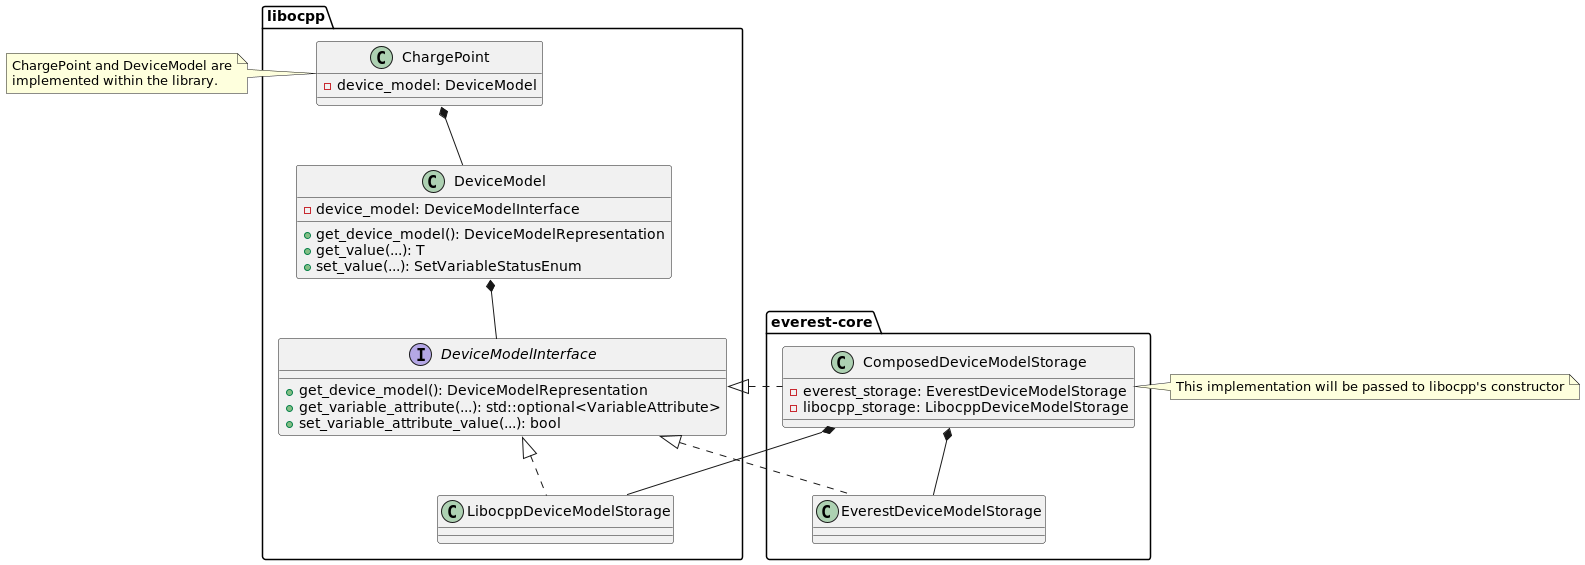
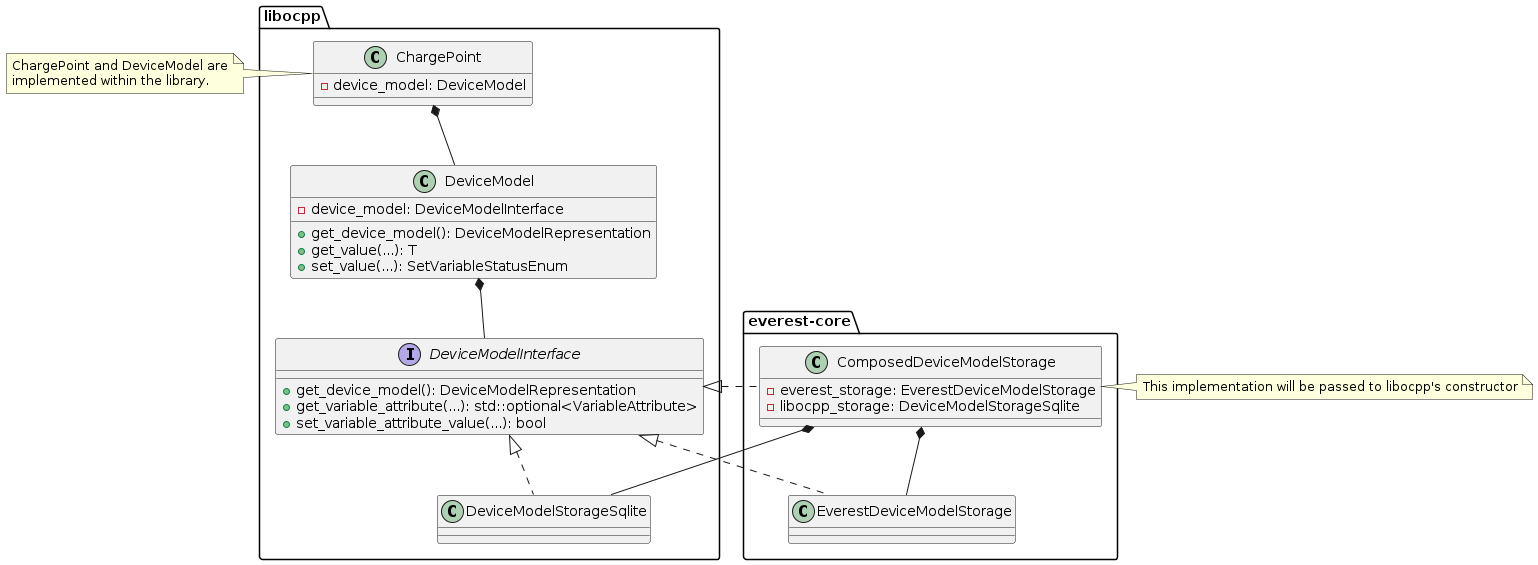
Harmonized naming within written documentation and diagrams and added some further explainations

diff --git a/modules/OCPP201/doc.rst b/modules/OCPP201/doc.rst
@@ -6,55 +6,40 @@ The `enable_global_errors` flag for this module is enabled. This module is there
 reported errors from other modules loaded in the same EVerest configuration.
 
 
-=====================================
-Device model storage / config service
-=====================================
+============
+Device model
+============
 
-The device model holds configuration and values that are managed by libocpp or externally, by other EVerest modules. To
-be able to get the externally managed configuration, a config service is defined.
-The config service is yet to be defined and implemented, but the first steps are already made.
+For managing configuration and telemtry data of a charging station, the OCPP2.0.1 specification introduces
+a device model that is very different to the design of OCPP1.6. 
+The specified device model comes with these high-level requirements:
 
+* 3-tier model: Break charging station down into 3 main tiers: ChargingStation, EVSE and Connector
+* Components and Variables: Break down charging station into components and variables for configuration and telemetry
+* Complex data structure for reporting and configuration of variables
+* Device model contains variables of the whole charging station, beyond OCPP business logic
 
-----------------------------------
-Requirements of the config service
-----------------------------------
-
-* Config refactor --> Modules get their config via MQTT as JSON
-* Responsible for read and write operations of configuration parameters of EVerest modules at runtime and startup
-* Config service to be accessed by priviliged modules (e.g. OCPP) using an option in the manifest.yaml like
-  enable_config_service
-* Config service needs to notify priviliged modules (e.g. OCPP) if a variable has changed (e.g. internally or by some
-  other module/UI etc.)
-* Config handler shall be part of modules with R/W config parameters (extend ev-cli module generation for this)
-* Module config parameter definition needs to be extended by mutability option (RW, RO, WO) in manifest.yaml
-
-This is how the config_service may be used within priviliged modules:
-
-.. highlight:: C++
-   this->config_service->set_config_param(module_id, optional<implementation_name>, config_name, value);
-
-This is how modules may use the config service to change their internal configuration themselves:
-
-.. highlight:: C++
-   this->config.set_param(config_name, value)
-
+The device model holds configuration and values that are managed by libocpp or externally, by other EVerest modules. 
+Externally managed variables can be retrieved using the EVerest configuration service.
+The config service is yet to be defined and implemented, so for now all variables are treated as internal variables.
 
 ---------------------------------------------------------------
 Internally and Externally Managed Variables of the Device Model
 ---------------------------------------------------------------
 
-As mentioned in the introduction the device model of OCPP2.0.1 can contain various physical or logical components and
+The device model of OCPP2.0.1 can contain various physical or logical components and
 variables. While in OCPP1.6 almost all of the standardized configuration keys are used to influence the control flow of
-libocpp, in OCPP2.0.1 the configuration and telemtry variables that can be part of the device model go beyond the
+libocpp, in OCPP2.0.1 the configuration and telemetry variables that can be part of the device model go beyond the
 control or reporting capabilities of only libocpp. Still there is a large share of standardized variables in OCPP2.0.1
-that do influence the control flow of libocpp. Therefore it is requirement to make a distinction between externally and
+that do influence the control flow of libocpp. Therefore it is a requirement to make a distinction between externally and
 internally managed variables of the device model inside the device model implementation:
 
 * Internally managed variables: Internally managed variables influence the control flow or can be reported by libocpp
   and are therefore owned by libocpp. If the mutability of such a variable is ReadWrite, the CSMS or the consumer of
   libocpp can set its value and the OCPP201 module is responsible for updating this value in the device model.
   Examples: HeartbeatInterval, AuthorizeRemoteStart, SampledDataTxEndedMeasurands, AuthCacheStorage
-* Externally managed variables: These variables do not influence the control flow of libocpp.
+* Externally managed variables: These variables do not influence the control flow of libocpp. These are owned and 
+  managed by other EVerest modules. 
   Examples: ConnectionTimeout, MasterPassGroupId
 
 
@@ -68,8 +53,7 @@ Sequence of variable access for internally and externally managed variables
 --------------
 OCPP201 module
 --------------
-* Provide external implementation of device model API
-* Implement device_model_interface.hpp as part of OCPP201 module
+* Provides an implementation of device model API defined as part of libocpp (implements device_model_interface.hpp)
 * Device model implementation must differentiate between internally and externally managed variables
 
   * Internally Managed: Owned, stored and accessed in libocpp in device model storage
@@ -83,7 +67,6 @@ OCPP201 module
   for externally managed configuration variables
 * To be done: A mapping mechanism from component schema variables to EVerest config paramaters and vice versa
 
-
 ------------------------------
 Class diagram for device model
 ------------------------------
@@ -95,23 +78,23 @@ Clarification of the device model classes of this diagram:
 * DeviceModel:
 
   * Part of libocpp
-  * Contains device model representation and business logic to prevalidate requests to the storage
+  * Contains device model representation and business logic to prevalidate requests to the device model variables
   * Contains reference to device model interface implementation
 
 * DeviceModelInterface:
 
   * Pure virtual class of libocpp
-  * Defines contract for storage implementations
+  * Defines contract for device model implementations
 
-* LibocppDeviceModelStorage
+* DeviceModelStorageSqlite
 
   * Implements DeviceModelInterface as part of libocpp
-  * Represents existing SQLite implementation of device model
+  * This storage holds internally managed variables
 
 * EverestDeviceModelStorage
 
   * Implements DeviceModelInterface as part of everest-core (OCPP201 module)
-  * Uses config service to interact with EVerest modules
+  * Uses EVerest config service to retrieve configuration variables of EVerest modules
 
 * ComposedDeviceModelStorage
 
